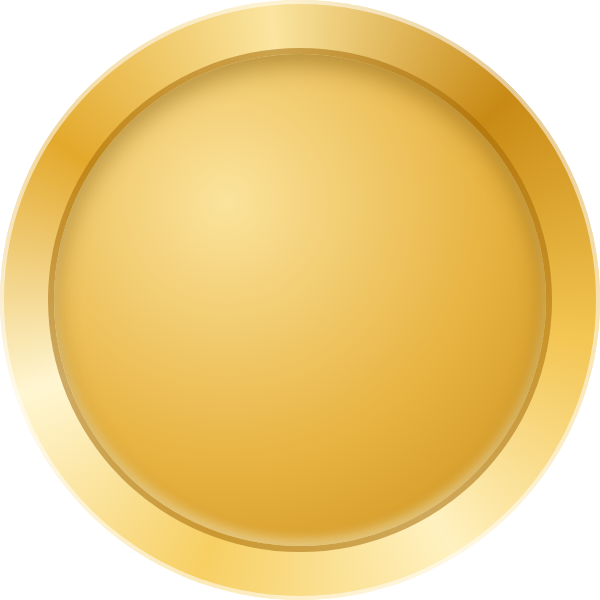
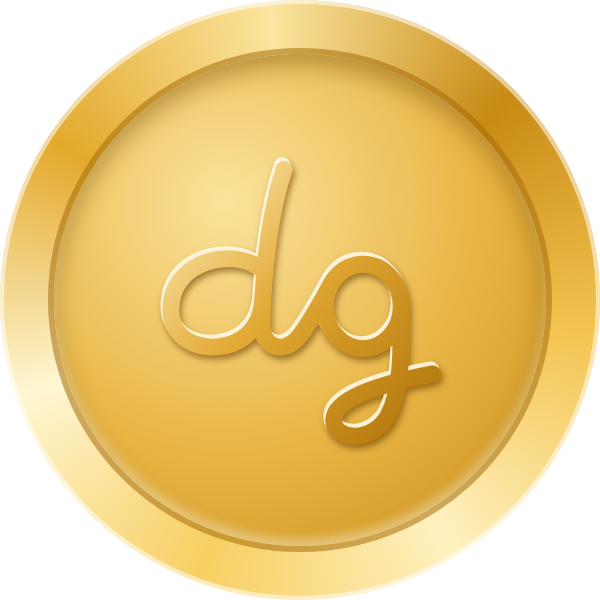
1911261714

Changed region(s): [[0.27, 0.24, 0.75, 0.75]]

diff --git a/schnitzeljagd/index.html b/schnitzeljagd/index.html
@@ -74,14 +74,13 @@
   .medaille.fliegt { animation: einfliegen 1.7s cubic-bezier(.16, .84, .3, 1) both; }
   @keyframes einfliegen {
     0%   { transform: translateY(-55vh) translateZ(-900px) rotateY(-1080deg) scale(.25); opacity: 0; }
-    35%  { opacity: 1; }
+    20%  { opacity: 1; }
     82%  { transform: translateY(0) translateZ(60px) rotateY(18deg) scale(1.06); }
     100% { transform: none; }
   }
   /* Die beiden Seiten sind fertige Bilder (medaille-vorne/-hinten.png, gerendert aus medaille-vorlage.html):
      drehen sich auf iPhone/iPad flüssig, weil beim Drehen nichts neu berechnet werden muss */
-  .medaille { will-change: transform; }
-  .medaille .seite { position: absolute; inset: 0; border-radius: 50%; overflow: hidden; backface-visibility: hidden; -webkit-backface-visibility: hidden; background: center / 100% 100% no-repeat; transform: translateZ(0); }
+  .medaille .seite { position: absolute; inset: 0; border-radius: 50%; overflow: hidden; backface-visibility: hidden; -webkit-backface-visibility: hidden; background: center / 100% 100% no-repeat; }
   .medaille .vorne { background-image: url(medaille-vorne.png); }
   .medaille .hinten { background-image: url(medaille-hinten.png); transform: rotateY(180deg); }
   .medaille-schatten { position: absolute; left: 12%; right: 12%; bottom: -7%; height: 10%; border-radius: 50%; background: rgba(36, 55, 70, .22); filter: blur(10px); opacity: 0; transition: opacity .5s 1.2s; }
@@ -122,6 +121,7 @@
   #kamera { position: absolute; inset: 0; overflow: hidden; }
   #treffer { position: absolute; inset: -10px; border-radius: 50%; border: 12px solid #22b04b; filter: blur(7px); opacity: 0; pointer-events: none; }
   #treffer.an { animation: treffer 1.3s ease-out; }
+  #treffer.rot { border-color: #e9152d; }
   @keyframes treffer { 0% { opacity: 0; transform: scale(.96); } 15% { opacity: 1; transform: scale(1); } 100% { opacity: 0; transform: scale(1.04); } }
   /* Pfeil steht immer oberhalb des Kamera-Ausschnitts; der Ausschnitt ist nur zum Scannen da */
   .gross-kompass { position: relative; flex: none; width: min(56vw, 28vh, 260px); aspect-ratio: 1; margin: auto auto 8px; pointer-events: none; }
@@ -674,8 +674,11 @@ window.schnitzeljagdStarten = function () {
       });
     } catch (e) {}
   }
-  const tonFanfare = () => glocke([[523.25, 0, 0.4], [659.25, 0.12, 0.4], [783.99, 0.24, 0.4], [1046.5, 0.36, 0.5],
-    [523.25, 0.62, 1.4], [659.25, 0.62, 1.4], [783.99, 0.62, 1.4], [1046.5, 0.62, 1.6]], 0.16);
+  const tonFanfare = () => glocke([
+    [523.25, 0, 0.45], [659.25, 0.12, 0.45], [783.99, 0.24, 0.45], [1046.5, 0.36, 0.55],      // Auftakt aufwärts
+    [783.99, 0.62, 0.4], [1046.5, 0.74, 0.5],                                                   // kurze Antwort
+    [523.25, 0.98, 3.0], [659.25, 0.98, 3.0], [783.99, 0.98, 3.0], [1046.5, 0.98, 3.2],         // Schlussakkord klingt lange aus
+    [1318.5, 1.2, 1.6], [1568.0, 1.38, 1.6], [2093.0, 1.56, 1.8]], 0.14);                       // Funkeln obendrauf
 
   // ---------- Ziel: Feier mit Medaille und Konfetti ----------
   const ruhig = () => window.matchMedia && matchMedia("(prefers-reduced-motion: reduce)").matches;
@@ -685,8 +688,13 @@ window.schnitzeljagdStarten = function () {
     if (stand.erledigt === i) { stand.erledigt = N; stand.antworten[i] = ""; speichern(); }
     // Kamera und Erkennung zuerst ausschalten – sonst ruckelt die Animation
     $("feier").hidden = false; arBeenden();
-    setTimeout(feierStarten, 120);
+    // Erst starten, wenn die Münzbilder fertig dekodiert sind – sonst dreht sich auf dem iPhone eine leere Münze
+    Promise.all([medBilderBereit(), new Promise(r => setTimeout(r, 150))]).then(() => requestAnimationFrame(feierStarten));
   }
+  const medBilder = ["medaille-vorne.png", "medaille-hinten.png"].map(q => { const b = new Image(); b.src = q; return b; });
+  const medBilderBereit = () => Promise.race([
+    Promise.all(medBilder.map(b => (b.decode ? b.decode() : Promise.resolve()).catch(() => {}))),
+    new Promise(r => setTimeout(r, 1500))]);
   function feierStarten() {
     const i = N - 1;
     $("feierTitel").textContent = daten.zielTitel || "Geschafft!";
@@ -735,35 +743,40 @@ window.schnitzeljagdStarten = function () {
     const r = $("feierBuehne").getBoundingClientRect(), mx = r.left + r.width / 2, my = r.top + r.height / 2;
     const teile = [];
     for (let k = 0; k < 110; k++) {
-      const w = Math.random() * Math.PI * 2, v = 6 + Math.random() * 9;
-      teile.push({ x: mx, y: my, vx: Math.cos(w) * v, vy: Math.sin(w) * v - 5, d: Math.random() * 6, dv: (Math.random() - .5) * .4, f: farben[k % 6], b: 6 + Math.random() * 6, h: 8 + Math.random() * 8, p: Math.random() * 6 });
+      const w = Math.random() * Math.PI * 2, v = 4 + Math.random() * 7;
+      teile.push({ x: mx, y: my, vx: Math.cos(w) * v, vy: Math.sin(w) * v - 4, d: Math.random() * 6, dv: (Math.random() - .5) * .2, f: farben[k % 6], b: 6 + Math.random() * 6, h: 8 + Math.random() * 8, p: Math.random() * 6, max: 1.6 + Math.random() * 1.4 });
     }
     for (let k = 0; k < 60; k++)
-      teile.push({ x: Math.random() * B, y: -20 - Math.random() * H * .6, vx: (Math.random() - .5) * 2, vy: 2 + Math.random() * 3, d: Math.random() * 6, dv: (Math.random() - .5) * .3, f: farben[k % 6], b: 6 + Math.random() * 5, h: 8 + Math.random() * 7, p: Math.random() * 6 });
-    const start = performance.now(); konfettiLauf = true;
+      teile.push({ x: Math.random() * B, y: -20 - Math.random() * H, vx: (Math.random() - .5) * 1.2, vy: 1 + Math.random() * 1.2, d: Math.random() * 6, dv: (Math.random() - .5) * .15, f: farben[k % 6], b: 6 + Math.random() * 5, h: 8 + Math.random() * 7, p: Math.random() * 6, max: 1.4 + Math.random() * 1.2 });
+    const start = performance.now(), DAUER = 8; konfettiLauf = true; let letzt = start;
     (function schritt(t) {
+      const dt = Math.min(3, Math.max(0.2, (t - letzt) / 16.667)); letzt = t;   // 1 = ein Bild bei 60 Hz
       x.setTransform(dpr, 0, 0, dpr, 0, 0); x.clearRect(0, 0, B, H);
       if (!konfettiLauf || $("feier").hidden) return;
       const alter = (t - start) / 1000;
-      x.globalAlpha = Math.max(0, Math.min(1, 5.5 - alter));
+      x.globalAlpha = Math.max(0, Math.min(1, DAUER - alter));
+      const brems = Math.pow(0.965, dt);
       teile.forEach(q => {
-        q.vx *= 0.985; q.vy = q.vy * 0.985 + 0.32; q.x += q.vx + Math.sin(alter * 3 + q.p) * 0.6; q.y += q.vy; q.d += q.dv;
+        q.vx *= brems; q.vy = Math.min(q.max, q.vy * brems + 0.12 * dt);          // Papier: bremst stark, fällt langsam
+        q.x += (q.vx + Math.sin(alter * 2 + q.p) * 0.7) * dt; q.y += q.vy * dt; q.d += q.dv * dt;
         if (q.y > H + 30) return;
-        const cs = Math.cos(q.d), sn = Math.sin(q.d), sy = Math.abs(Math.cos(alter * 6 + q.p)) * .9 + .1;
+        const cs = Math.cos(q.d), sn = Math.sin(q.d), sy = Math.abs(Math.cos(alter * 4 + q.p)) * .9 + .1;
         x.setTransform(dpr * cs, dpr * sn, -dpr * sn * sy, dpr * cs * sy, dpr * q.x, dpr * q.y);
         x.fillStyle = q.f; x.fillRect(-q.b / 2, -q.h / 2, q.b, q.h);
       });
-      if (alter < 5.5) requestAnimationFrame(schritt); else { x.setTransform(dpr, 0, 0, dpr, 0, 0); x.clearRect(0, 0, B, H); konfettiLauf = false; }
+      if (alter < DAUER) requestAnimationFrame(schritt); else { x.setTransform(dpr, 0, 0, dpr, 0, 0); x.clearRect(0, 0, B, H); konfettiLauf = false; }
     })(start);
   }
   $("feierWeiter").addEventListener("click", () => { konfettiLauf = false; $("feier").hidden = true; zeigen(); window.scrollTo(0, 0); });
 
-  function treffer(k) {
+  // art: "neu" = grün mit Ton, "schon" = grün ohne Ton (schon besucht), "spaeter" = rot mit Falsch-Ton
+  function treffer(k, art = "neu") {
     const jetzt = Date.now();
     if (zuletzt.k === k && jetzt - zuletzt.t < 4000) { zuletzt.t = jetzt; return; }   // derselbe Aufkleber: nicht dauernd piepen
     zuletzt = { k, t: jetzt };
-    const r = $("treffer"); r.classList.remove("an"); void r.offsetWidth; r.classList.add("an");
-    ton(); if (navigator.vibrate) navigator.vibrate(30);
+    const r = $("treffer"); r.classList.remove("an"); r.classList.toggle("rot", art === "spaeter"); void r.offsetWidth; r.classList.add("an");
+    if (art === "neu") { ton(); if (navigator.vibrate) navigator.vibrate(30); }
+    else if (art === "spaeter") tonFalsch();
   }
 
   // ---------- Kamera und Erkennung ----------
@@ -926,9 +939,9 @@ window.schnitzeljagdStarten = function () {
           treffer("c" + i); blattZeigen(i);
         } else if (i < stand.erledigt) {            // schon besucht
           if (i === stand.erledigt - 1 && stand.erledigt < N && frei(i) && peilungCP(i) !== null) { stand.peilung = peilungCP(i); speichern(); kompassZeigen(); }
-          kurzLabel("An diesem Checkpoint warst du schon.");
+          treffer("c" + i, "schon"); kurzLabel("An diesem Checkpoint warst du schon.");
         } else {
-          kurzLabel("Dieser Checkpoint kommt erst später.");
+          treffer("c" + i, "spaeter"); kurzLabel("Dieser Checkpoint kommt erst später.");
         }
       });
       a.addEventListener("targetLost", () => { if (sichtbar === i) sichtbar = null; });
@@ -946,9 +959,9 @@ window.schnitzeljagdStarten = function () {
           if (p !== null) { stand.peilung = p; speichern(); label(sucheText()); kompassZeigen(); }
           else kurzLabel("Dieser Checkpoint ist noch nicht eingemessen.");
         } else if (nach !== null && nach > gesucht) {
-          kurzLabel("Dieser Checkpoint kommt erst später.");
+          treffer("w" + j, "spaeter"); kurzLabel("Dieser Checkpoint kommt erst später.");
         } else {
-          kurzLabel("An diesem Checkpoint warst du schon.");
+          treffer("w" + j, "schon"); kurzLabel("An diesem Checkpoint warst du schon.");
         }
       });
     });

diff --git a/schnitzeljagd/medaille-vorlage.html b/schnitzeljagd/medaille-vorlage.html
@@ -11,6 +11,7 @@
     box-shadow: inset 0 5px 12px rgba(110, 70, 0, .45), inset 0 -3px 6px rgba(255, 244, 200, .65), 0 0 0 3px rgba(165, 108, 10, .55); }
   .praegung { position: relative; filter: drop-shadow(-1px -1.5px 0 rgba(255, 250, 228, .9)) drop-shadow(1.5px 2.5px 1.5px rgba(105, 62, 0, .6)); }
   .praegung.logo { width: 38%; aspect-ratio: 1; }
+  .praegung.monogramm { width: 52%; aspect-ratio: 296 / 300; }
   .praegung.umschrift { position: absolute; inset: 0; width: 100%; height: 100%; }
   .umschrift text { font-family: Inter, -apple-system, sans-serif; font-weight: 800; font-size: 6.6px; letter-spacing: 1.3px; }
   .praegung i { position: absolute; inset: 0; -webkit-mask: center / contain no-repeat; mask: center / contain no-repeat; }
@@ -29,5 +30,11 @@
   </svg>
   <div class="praegung logo"><i class="pr-rahmen"></i><i class="pr-w"></i></div>
 </div>
-<div class="seite hinten"></div>
+<div class="seite hinten">
+  <!-- Rückseite: Monogramm dg (dg-logo-schwarz.svg) mittig eingeprägt -->
+  <svg class="praegung monogramm" viewBox="30 4 296 300">
+    <defs><linearGradient id="g2" x1="0" y1="0" x2="1" y2="1"><stop offset="0" stop-color="#fff0bd"/><stop offset=".45" stop-color="#e2a935"/><stop offset="1" stop-color="#b07408"/></linearGradient></defs>
+    <path d="M 144.5 128.0 C 124 104, 62 112, 56 156 C 50 198, 98 208, 124 190 C 138 180, 142.0 166.0, 142.9 150.0 C 145.2 110.3, 151.6 64.2, 163.0 30.0 C 149.0 72.0, 142.5 132.0, 142.0 176.0 C 141.6 198, 160 205, 174 192 C 184 182, 194.7 161.6, 207.4 138.9 C 213.7 127.6, 225.1 120.0, 238.0 120.0 C 257.9 120.0, 274.0 137.9, 274.0 160.0 C 274.0 182.1, 257.9 200.0, 238.0 200.0 C 218.1 200.0, 202.0 182.1, 202.0 160.0 C 202.0 137.9, 218.1 120.0, 238.0 120.0 C 257.9 120.0, 274.0 137.9, 274.0 160.0 C 274 200, 275 238, 262 263 C 248 290, 210 288, 210 268 C 210 248, 252 234, 304 224" fill="none" stroke="url(#g2)" stroke-width="16" stroke-linecap="round" stroke-linejoin="round" gradientUnits="userSpaceOnUse"/>
+  </svg>
+</div>
 </body></html>

diff --git a/schnitzeljagd/sw.js b/schnitzeljagd/sw.js
@@ -1,7 +1,7 @@
 // Speichert die Schnitzeljagd beim ersten Öffnen komplett auf dem Gerät – danach läuft sie auch ohne Internet.
 // Texte (index.html, stationen.js, peilungen.json) kommen, wenn möglich, frisch aus dem Netz (höchstens 2,5 s warten), sonst aus dem Speicher.
 // Alles andere kommt aus dem Speicher. Ändert sich VERSION (setzt bauen.py), wird alles neu geladen.
-const VERSION = "dfea1a68ff";
+const VERSION = "c364e64eb0";
 const CACHE = "schnitzeljagd-" + VERSION;
 const DATEIEN = ["./", "index.html", "stationen.js", "logo.png", "medaille-vorne.png", "medaille-hinten.png", "vendor/aframe-v1.5.0.min.js", "vendor/mindar-image-aframe.prod.js", "targets/stationen.mind"];
 
